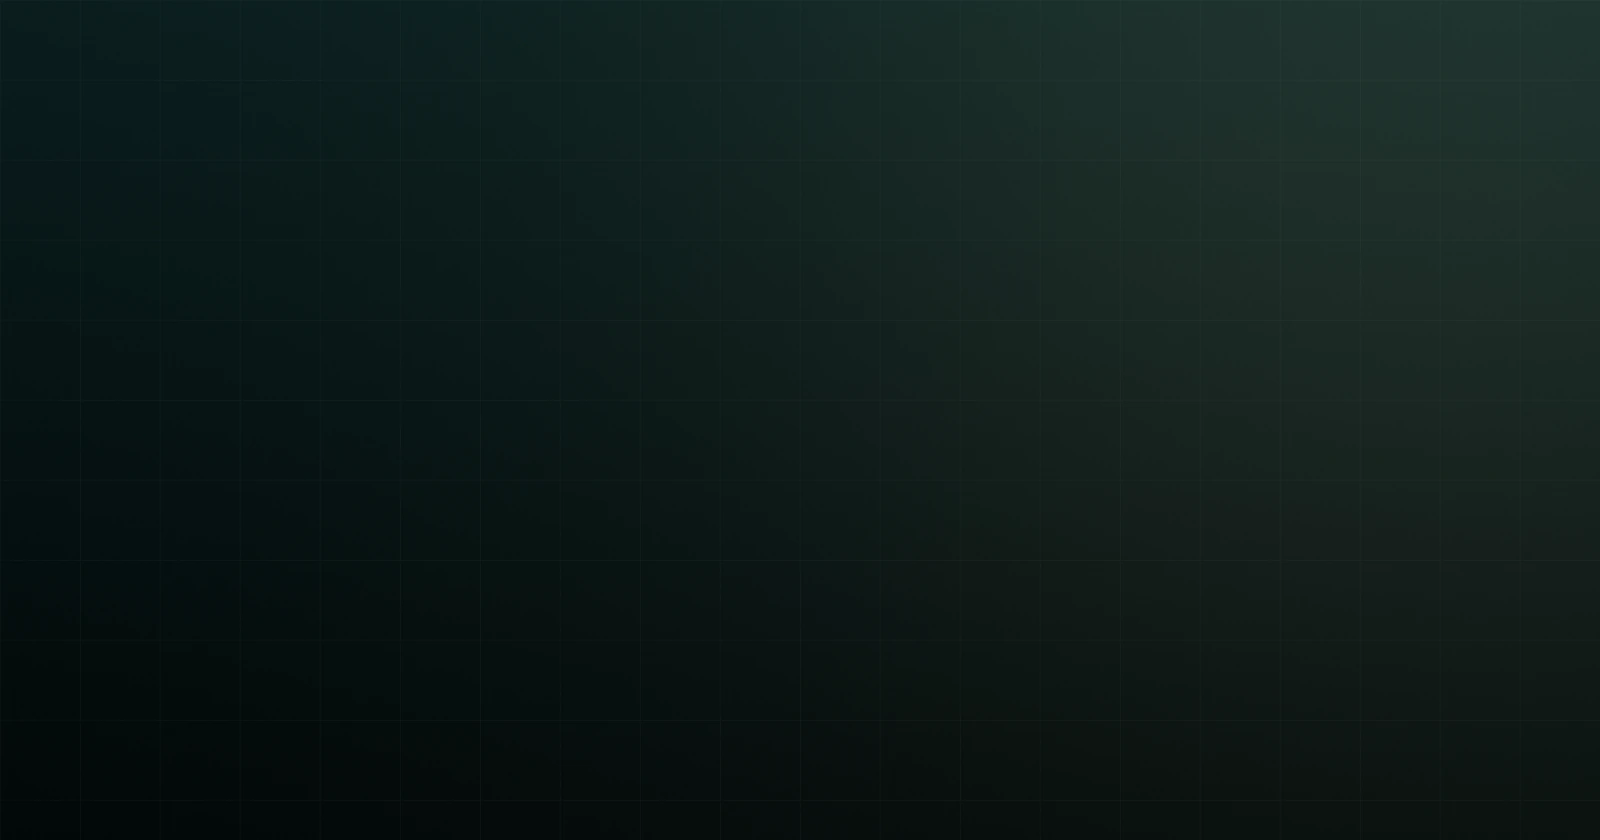
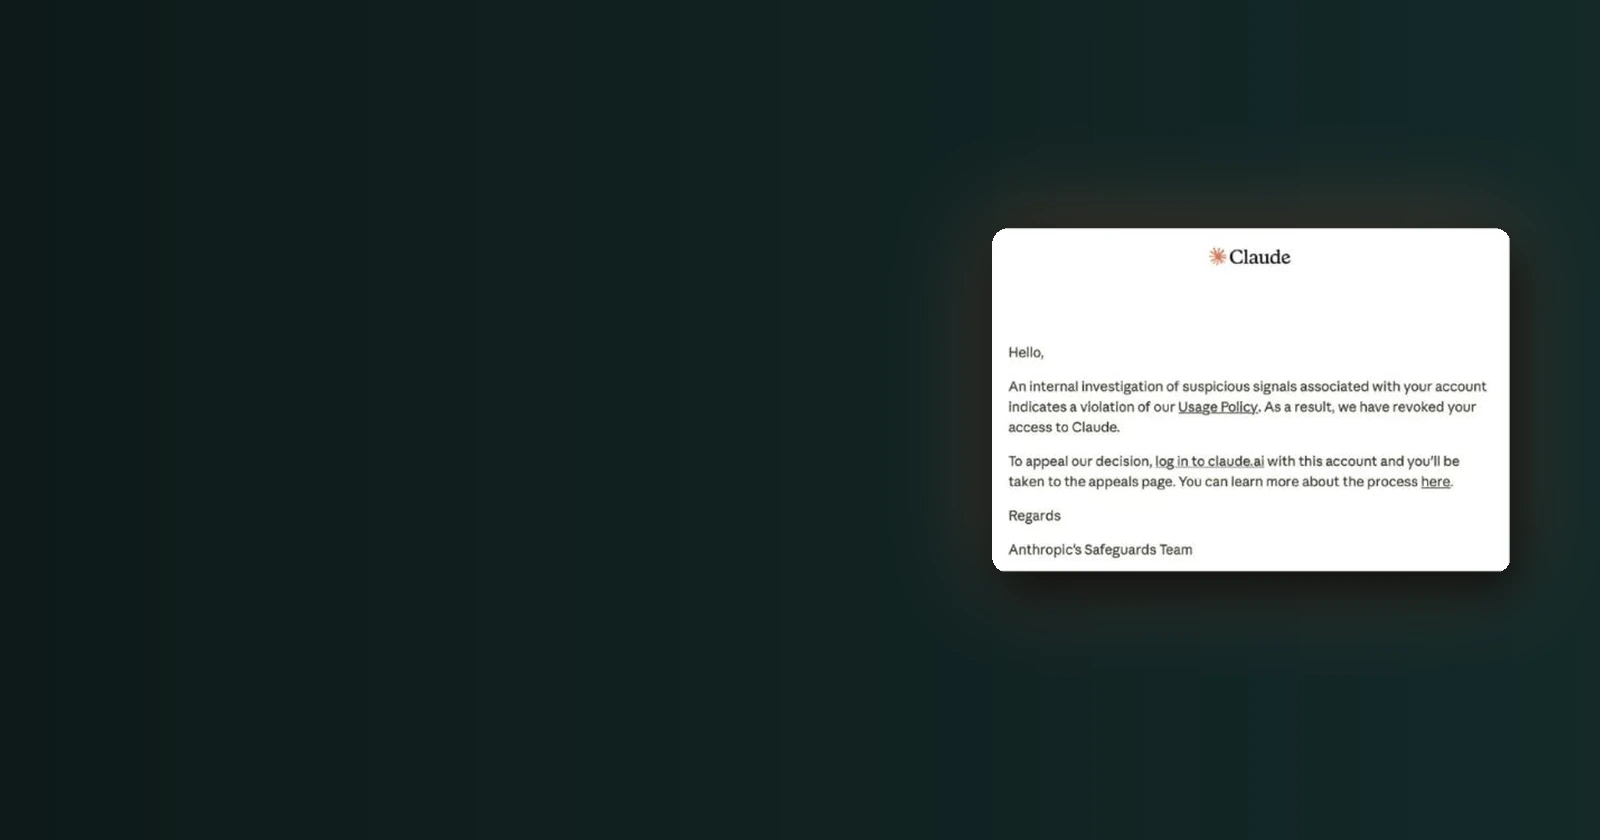
Обложка «Claude без банов»: настоящее письмо Claude о закрытии доступа вместо знака параграфа

Changed region(s): [[0.5938, 0.2476, 0.9688, 0.681], [0.875, 0.9595, 1.0, 1.0]]

diff --git a/index.html b/index.html
@@ -350,7 +350,7 @@
         <div class="guides">
           <a class="guide-link" data-tags="dostup green" data-kod="ДОСТУП" data-poisk="Claude из России: подключение без блокировок VPN вход в Claude регистрация Google-аккаунт подтверждение номера доступ из России" aria-label="Claude из России: подключение без блокировок" href="claude-ai/podklyuchenie-iz-rossii/"><img class="guide-cover" src="claude-ai/podklyuchenie-iz-rossii/assets/oblozhka.webp" alt="Claude из России: подключение без блокировок. Стеклянный глобус с выделенной Россией и открытым каналом связи для статьи о доступе к Claude" width="1600" height="840" loading="lazy" decoding="async"><span class="guide-body"><span class="guide-summary">От проверки сети до первого сообщения - весь вход по шагам</span><span class="guide-meta"><span class="guide-level"><span class="track-dot green" aria-hidden="true"></span>Начальный уровень</span><span class="kind kind-instr">Инструкция</span></span></span></a>
           <a class="guide-link" data-tags="claude green" data-kod="ЗАМЕНА" data-poisk="10 бесплатных замен платным нейросетям - с подвохами бесплатные нейросети замены платным сервисам лимиты бесплатных тарифов" aria-label="10 бесплатных замен платным нейросетям - с подвохами" href="claude-ai/10-besplatnyh-zamen/"><img class="guide-cover" src="claude-ai/10-besplatnyh-zamen/assets/oblozhka.webp" alt="10 бесплатных замен платным нейросетям - с подвохами. Три бесплатные альтернативы занимают место платных сервисов, банковская карта остаётся у платной стороны" width="1600" height="840" loading="lazy" decoding="async"><span class="guide-body"><span class="guide-summary">Бесплатная замена под задачу и честно про её лимиты</span><span class="guide-meta"><span class="guide-level"><span class="track-dot green" aria-hidden="true"></span>Начальный уровень</span><span class="kind kind-instr">Инструкция</span></span></span></a>
-          <a class="guide-link" data-tags="claude dostup green" data-kod="" data-poisk="Claude из России не пускает: ошибка 403, отказ оплаты, блокировка и апелляция блокировка Claude апелляция экспорт данных резервная копия" aria-label="Claude из России не пускает: ошибка 403, отказ оплаты, блокировка и апелляция" href="claude-ai/claude-iz-rossii-bez-banov/"><img class="guide-cover" src="claude-ai/claude-iz-rossii-bez-banov/assets/oblozhka.webp" alt="Claude из России не пускает: ошибка 403, отказ оплаты, блокировка и апелляция. Типографская обложка: Claude без банов, 403, оплата или апелляция" width="1600" height="840" loading="lazy" decoding="async"><span class="guide-body"><span class="guide-summary">Найдёшь маршрут для своей ошибки доступа</span><span class="guide-meta"><span class="guide-level"><span class="track-dot green" aria-hidden="true"></span>Начальный уровень</span><span class="kind kind-instr">Инструкция</span></span></span></a>
+          <a class="guide-link" data-tags="claude dostup green" data-kod="" data-poisk="Claude из России не пускает: ошибка 403, отказ оплаты, блокировка и апелляция блокировка Claude апелляция экспорт данных резервная копия" aria-label="Claude из России не пускает: ошибка 403, отказ оплаты, блокировка и апелляция" href="claude-ai/claude-iz-rossii-bez-banov/"><img class="guide-cover" src="claude-ai/claude-iz-rossii-bez-banov/assets/oblozhka.webp" alt="Claude из России не пускает: ошибка 403, отказ оплаты, блокировка и апелляция. Письмо Claude о закрытии доступа к аккаунту со ссылкой на апелляцию" width="1600" height="840" loading="lazy" decoding="async"><span class="guide-body"><span class="guide-summary">Найдёшь маршрут для своей ошибки доступа</span><span class="guide-meta"><span class="guide-level"><span class="track-dot green" aria-hidden="true"></span>Начальный уровень</span><span class="kind kind-instr">Инструкция</span></span></span></a>
           <a class="guide-link" data-tags="servisy green" data-kod="ЖЕМЧУГ" data-poisk="10 сайтов старого интернета, которые работают до сих пор FilePizza SunCalc MyFridgeFood GetHuman JustDeleteMe PDF24 Tools Namechk Cover Your Tracks TinEye IsThereAnyDeal" aria-label="10 сайтов старого интернета, которые работают до сих пор" href="claude-ai/10-saytov-starogo-interneta/"><img class="guide-cover" src="claude-ai/10-saytov-starogo-interneta/assets/oblozhka.webp" alt="10 сайтов старого интернета, которые работают до сих пор. Старый компьютер с ракушкой и десятью оранжевыми жемчужинами на экране как образ полезных сайтов, которые работают до сих пор" width="1600" height="840" loading="lazy" decoding="async"><span class="guide-body"><span class="guide-summary">Десять маленьких сайтов, каждый решает одну задачу</span><span class="guide-meta"><span class="guide-level"><span class="track-dot green" aria-hidden="true"></span>Начальный уровень</span><span class="kind kind-instr">Инструкция</span></span></span></a>
         </div>
       </div>

diff --git a/claude-ai/claude-iz-rossii-bez-banov/index.html b/claude-ai/claude-iz-rossii-bez-banov/index.html
@@ -308,7 +308,7 @@
 <a href="#faq">Частые вопросы</a>
 <a href="#sources">Официальные источники</a></div>
 </nav></details><article>
-<header id="nachalo"><p class="eyebrow">Claude.ai · доступ из России</p><figure class="cover cover-v2"><img src="assets/oblozhka.webp" width="1600" height="840" alt="Типографская обложка: Claude без банов, 403, оплата или апелляция" loading="eager" decoding="async" fetchpriority="high"><figcaption>Ошибки входа и оплаты, сохранение данных и апелляция по отключённому аккаунту</figcaption></figure>
+<header id="nachalo"><p class="eyebrow">Claude.ai · доступ из России</p><figure class="cover cover-v2"><img src="assets/oblozhka.webp" width="1600" height="840" alt="Письмо Claude о закрытии доступа к аккаунту со ссылкой на апелляцию" loading="eager" decoding="async" fetchpriority="high"><figcaption>Ошибки входа и оплаты, сохранение данных и апелляция по отключённому аккаунту</figcaption></figure>
 <h1 class="article-title-v2">Claude из России не пускает: ошибка 403, отказ оплаты, блокировка и апелляция</h1><p class="meta">ОБНОВЛЕНО 29 СЕНТЯБРЯ 2026</p>
 
 <p class="lead">Claude не открывается, не принимает оплату, внезапно просит войти снова или показывает форму апелляции. Со стороны всё это выглядит одинаково: «нет доступа». Но у сетевой ошибки, отказа банка и отключённого аккаунта разные причины и разные решения. Найди свой случай и пройди только его маршрут</p></header>
